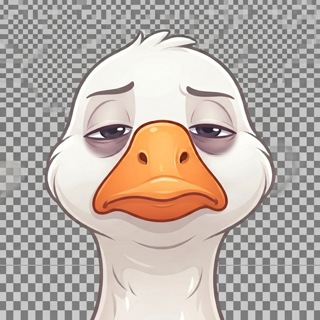
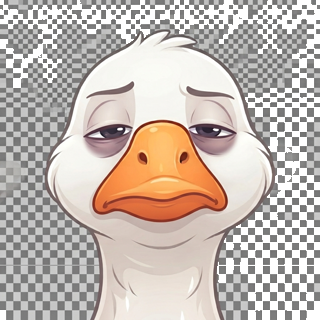
Arreglar transparencia falsa de la Oca y texto gigante en minijuegos
Las imágenes de la Oca tenían el cuadriculado de "transparencia" del
editor dibujado como píxeles reales en vez de canal alfa, así que se
veían con un fondo gris cuadrado en la app. Se les quita ese fondo con
flood-fill desde las esquinas (deja intacto el pato, que no comparte
esos tonos de gris).

De paso, el texto instructivo de los minijuegos de memoria y reflejos
no tenía estilo asignado, así que heredaba un tamaño de fuente enorme
en vez de los ~13px que usa el resto de la UI — se le pone el mismo
estilo que ya usa el texto de resultado debajo.

Claude-Session: https://claude.ai/code/session_01U7d7hybhiSqgGvpNcjK2N1

Changed region(s): [[0.0, 0.0, 1.0, 1.0], [0.0, 0.9688, 0.0312, 1.0]]

diff --git a/ocaland_flutter/lib/screens/widgets/memoria_widget.dart b/ocaland_flutter/lib/screens/widgets/memoria_widget.dart
@@ -1,5 +1,6 @@
 import 'dart:math';
 import 'package:flutter/material.dart';
+import '../../theme/app_colors.dart';
 
 /// Mini-juego de memoria: se iluminan 3 fichas de colores en secuencia,
 /// hay que repetirla tocando en el mismo orden.
@@ -72,7 +73,11 @@ class _MemoriaWidgetState extends State<MemoriaWidget> {
     return Column(
       mainAxisSize: MainAxisSize.min,
       children: [
-        const Text('Mini-juego de memoria: van a brillar 3 fichas de colores, una por una. Cuando terminen, tocalas en el mismo orden en que brillaron.'),
+        const Text(
+          'Mini-juego de memoria: van a brillar 3 fichas de colores, una por una. Cuando terminen, tocalas en el mismo orden en que brillaron.',
+          textAlign: TextAlign.center,
+          style: TextStyle(fontSize: 13, color: AppColors.violetDark),
+        ),
         const SizedBox(height: 10),
         Row(
           mainAxisAlignment: MainAxisAlignment.center,

diff --git a/ocaland_flutter/lib/screens/widgets/reflejos_widget.dart b/ocaland_flutter/lib/screens/widgets/reflejos_widget.dart
@@ -1,6 +1,7 @@
 import 'dart:async';
 import 'dart:math';
 import 'package:flutter/material.dart';
+import '../../theme/app_colors.dart';
 
 /// Mini-juego de reflejos: hay que tocar el botón apenas se pone verde.
 /// Falla si se toca antes de tiempo o si se tarda demasiado (>900ms) una vez
@@ -72,7 +73,11 @@ class _ReflejosWidgetState extends State<ReflejosWidget> {
     return Column(
       mainAxisSize: MainAxisSize.min,
       children: [
-        const Text('Mini-juego de reflejos: tocá el botón apenas se ponga verde.'),
+        const Text(
+          'Mini-juego de reflejos: tocá el botón apenas se ponga verde.',
+          textAlign: TextAlign.center,
+          style: TextStyle(fontSize: 13, color: AppColors.violetDark),
+        ),
         const SizedBox(height: 10),
         SizedBox(
           width: double.infinity,
